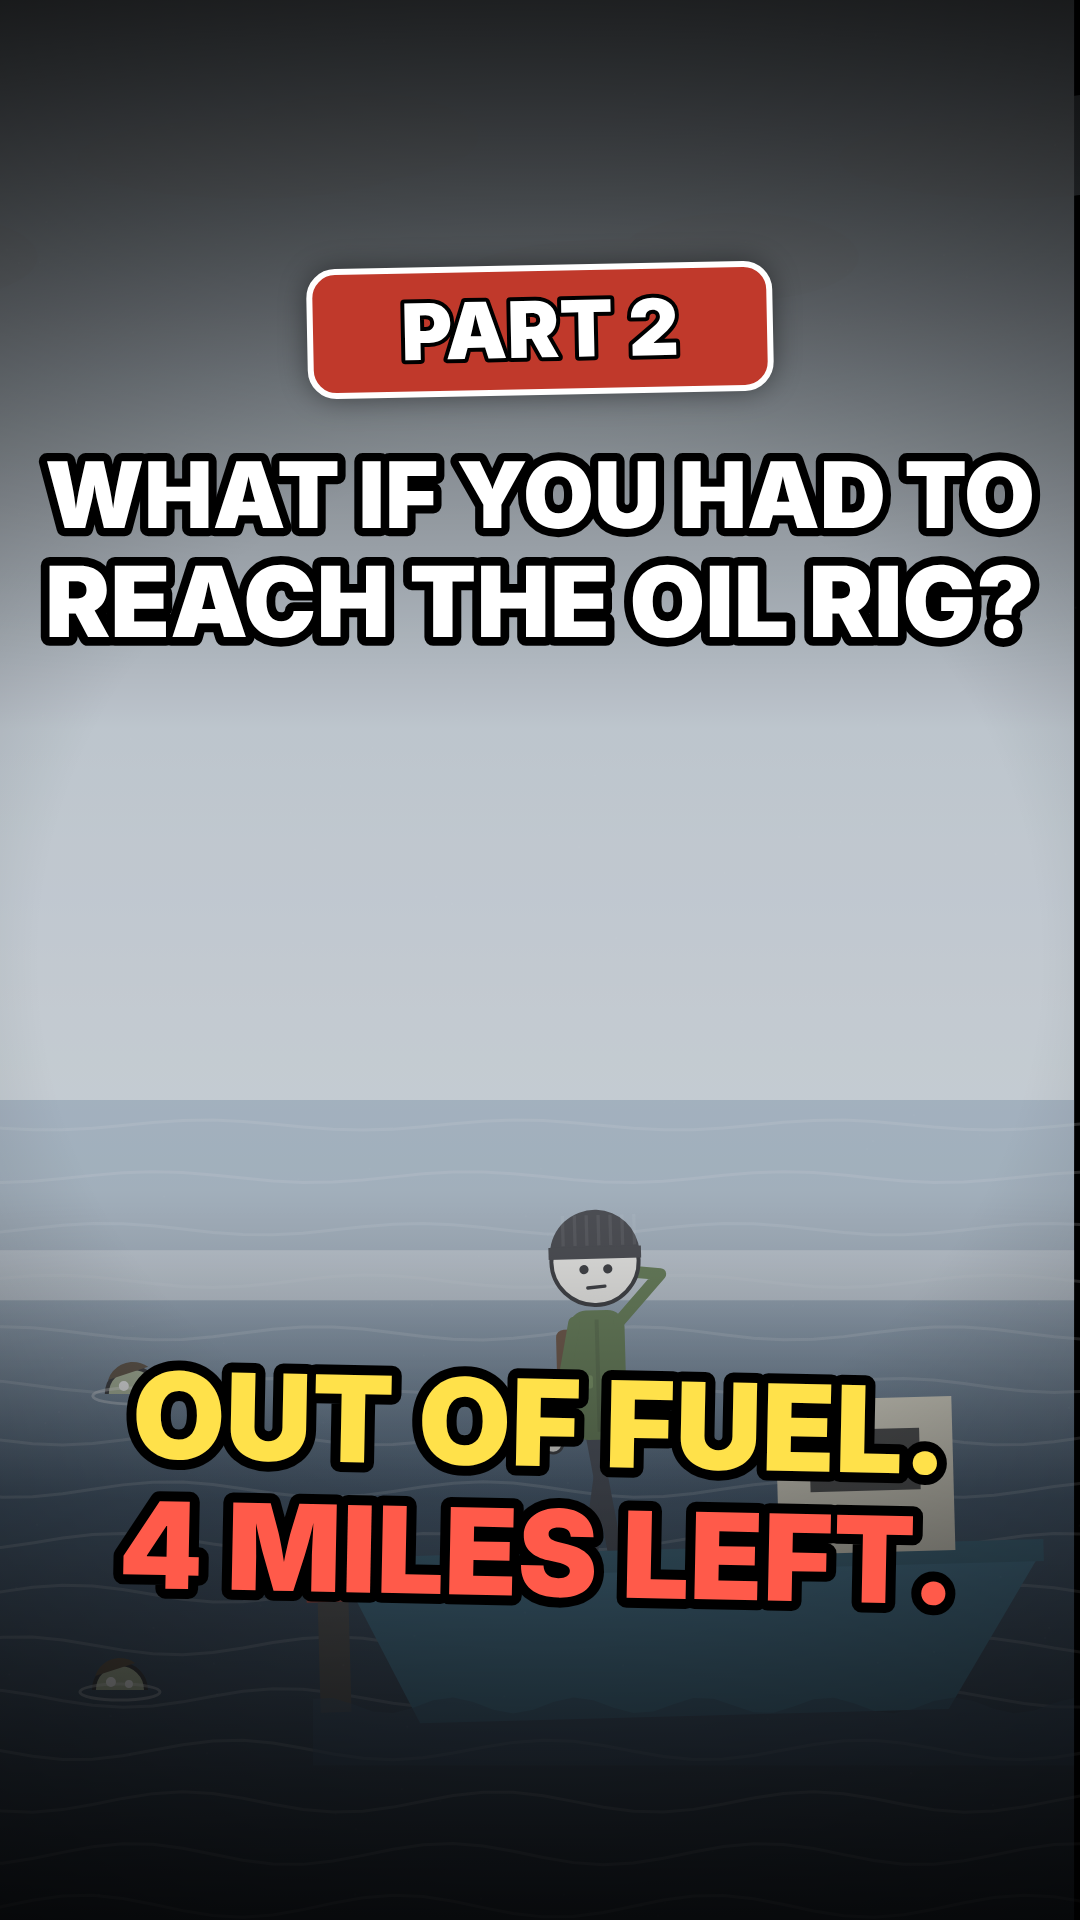
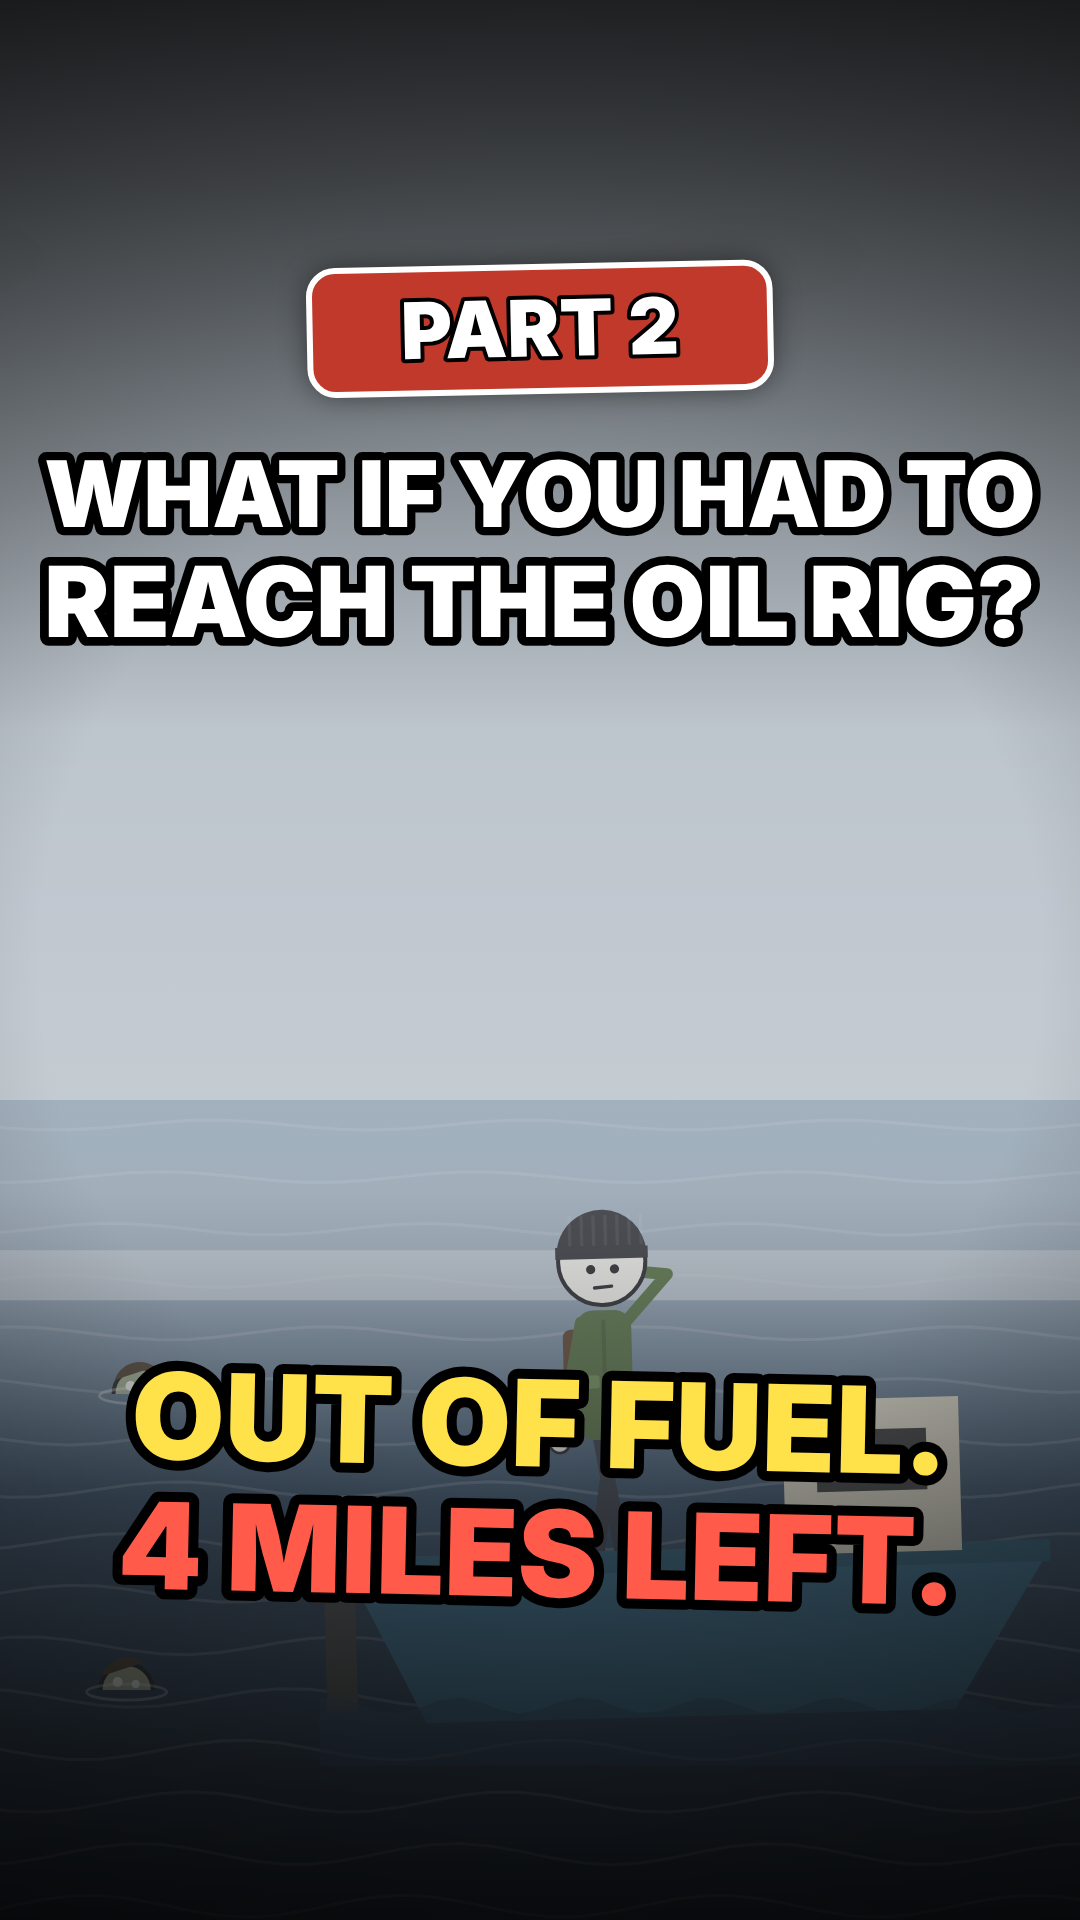
Oil Rig Part 2: shake only on its own beats (efx), not carried over to the whole video
Claude-Session: https://claude.ai/code/session_013umtZoLEZ37bGJSpkYeTGU

diff --git a/possums-videos/zombie/series/oilrig/part02/episode.html b/possums-videos/zombie/series/oilrig/part02/episode.html
@@ -421,7 +421,7 @@ window.renderThumb = function (t, spec) { THUMB = spec; renderFrame(t); THUMB = 
 window.renderFrame = function (t) {
   ctx.setTransform(1, 0, 0, 1, 0, 0); ctx.globalAlpha = 1; ctx.fillStyle = '#000'; ctx.fillRect(0, 0, W, H);
   let i = 0; for (let j = 0; j < TL.beats.length; j++) if (t >= TL.beats[j].start - .2) i = j; const b = TL.beats[i], k = clamp((t - b.start) / Math.max(.3, b.end - b.start));
-  const sh = (b.fx || []).includes('shake') ? Math.sin(t * 50) * 9 : 0; ctx.save(); ctx.translate(sh, 0);
+  const sh = (b.efx || []).includes('shake') ? Math.sin(t * 50) * 9 : 0;   // efx = this beat only (fx carries over to later beats) ctx.save(); ctx.translate(sh, 0);
   // slow camera push for life
   PREV = i > 0 ? TL.beats[i - 1] : null;
   let nc = 0; if (b.cards) for (const c of b.cards) { const w = c.w && b.words.find(w => w.w.toLowerCase().replace(/[^a-z0-9]/g, '').startsWith(c.w)); if (t >= (w ? w.s : b.start) - .05) nc++; }

diff --git a/possums-videos/zombie/story/engine.html b/possums-videos/zombie/story/engine.html
@@ -421,7 +421,7 @@ window.renderThumb = function (t, spec) { THUMB = spec; renderFrame(t); THUMB = 
 window.renderFrame = function (t) {
   ctx.setTransform(1, 0, 0, 1, 0, 0); ctx.globalAlpha = 1; ctx.fillStyle = '#000'; ctx.fillRect(0, 0, W, H);
   let i = 0; for (let j = 0; j < TL.beats.length; j++) if (t >= TL.beats[j].start - .2) i = j; const b = TL.beats[i], k = clamp((t - b.start) / Math.max(.3, b.end - b.start));
-  const sh = (b.fx || []).includes('shake') ? Math.sin(t * 50) * 9 : 0; ctx.save(); ctx.translate(sh, 0);
+  const sh = (b.efx || []).includes('shake') ? Math.sin(t * 50) * 9 : 0;   // efx = this beat only (fx carries over to later beats) ctx.save(); ctx.translate(sh, 0);
   // slow camera push for life
   PREV = i > 0 ? TL.beats[i - 1] : null;
   let nc = 0; if (b.cards) for (const c of b.cards) { const w = c.w && b.words.find(w => w.w.toLowerCase().replace(/[^a-z0-9]/g, '').startsWith(c.w)); if (t >= (w ? w.s : b.start) - .05) nc++; }

diff --git a/possums-videos/zombie/series/oilrig/part02/make_script.py b/possums-videos/zombie/series/oilrig/part02/make_script.py
@@ -13,7 +13,7 @@ b("You pull the cord. Nothing. Again. Nothing.", scene="sea", tod="dusk", pier=T
   cards=[C("PULL 1", "cord", c=R), C("PULL 2", "again", c=R)], sfx=[["rattle", .25], ["rattle", .75], ["groan", .9]])
 b("Third pull. The engine roars.", scene="sea", tod="dusk", pier=True, z={"n": 8, "x0": .25, "x1": .3, "depth": "mid"}, boat=[600, 700], speed=.6, you=[-40, "point"], intensity=1,
   cards=[C("PULL 3", "third", c=G)], sfx=[["engine", .4]])
-b("And a hand grabs the back of the boat.", scene="sea", tod="dusk", boat=[700, 700], speed=.6, grab=[.3, 2], you=[-40, "scared"], fx=["shake"], intensity=1,
+b("And a hand grabs the back of the boat.", scene="sea", tod="dusk", boat=[700, 700], speed=.6, grab=[.3, 2], you=[-40, "scared"], efx=["shake"], intensity=1,
   cards=[C("GRAB", "hand", c=R, big=True)], sfx=[["crash", .35], ["groan", .5]])
 b("You kick. It lets go, and sinks without a sound.", scene="sea", tod="dusk", boat=[700, 600], speed=.8, grab=[0, .45], you=[-40, "point", 1], intensity=.8, sfx=[["bang", .15], ["whoosh", .55]])
 b("Open water. Twelve miles to the rig. Half a tank.", scene="sea", tod="day", rig=[880, .8], boat=[400, 560], speed=1, you=[-40, "idle"], intensity=.6,
@@ -31,7 +31,7 @@ b("In fog, ships and platforms sound a long blast at least every two minutes. Fo
 b("Two minutes later, again. You turn toward it.", scene="sea", tod="day", fog=1, horn=[880, 1050], boat=[600, 700], speed=.35, you=[-40, "point"], cards=[C("EVERY 2 MIN", "two", c=G)])
 b("Then the engine coughs. And dies.", scene="sea", tod="day", fog=1, cough=True, boat=[700, 700], you=[-40, "scared"], intensity=.9,
   cards=[C("FUEL: EMPTY", "coughs", c=R), C("4 MILES LEFT", "dies", c=Y)], sfx=[["sputter", .2], ["sting", .8]])
-b("Something bumps the hull. Then again. You're not alone out here.", scene="sea", tod="day", fog=.8, floaters=9, boat=[700, 700], tilt=.06, you=[-40, "scared"], fx=["shake"], intensity=1,
+b("Something bumps the hull. Then again. You're not alone out here.", scene="sea", tod="day", fog=.8, floaters=9, boat=[700, 700], tilt=.06, you=[-40, "scared"], efx=["shake"], intensity=1,
   cards=[C("BUMP", "bumps", c=R), C("BUMP", "again", c=R)], sfx=[["bang", .2], ["bang", .5], ["groan", .8]])
 b("Remember the rule. One minute of shock. Ten before your arms quit. Nobody swims four miles.", scene="sea", tod="day", fog=.8, floaters=9, boat=[700, 700], you=[-40, "think"],
   cards=[C("1-10-1", "rule", c=Y, big=True), C("NO SWIMMING", "nobody", c=R)])

diff --git a/.claude/skills/generate-part/SKILL.md b/.claude/skills/generate-part/SKILL.md
@@ -28,6 +28,7 @@ Never make a part before the poll result arrives.
 - Cast rule: one main survivor; a new character may join/leave every other part.
 - End: ONE would-you-rather (answers said plainly, no A/B), countdown hold, "Vote in the poll. Part N+1, tomorrow."
   Part 7 = finale (still end with a question about what comes next, or a fitting final poll).
+- Screen shake: use `efx=["shake"]` (this beat only). Never `fx=` for shake: fx carries over to every later beat and the whole video shakes.
 - If a needed location doesn't exist, add a scene function to `zombie/story/engine.html` (then copy it to
   `partNN/episode.html`).
 
